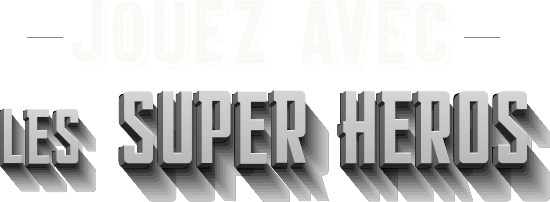
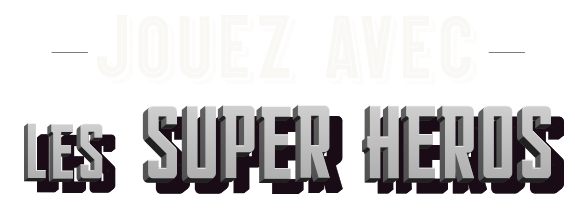
responsive

diff --git a/css/style.css b/css/style.css
@@ -118,7 +118,7 @@ a:hover {
 .c-btn {
   font-family: "Barlow", sans-serif;
   font-weight: 700;
-  margin-top: 50px;
+  margin-top: 20px;
   background-color: #9e0b0f;
   -webkit-box-shadow: 3px 3px 0px 0px white;
           box-shadow: 3px 3px 0px 0px white;
@@ -142,7 +142,17 @@ a:hover {
 }
 
 .footer-jouez {
-  margin-bottom: 50px;
+  margin: 50px 0 40px;
+  display: -webkit-box;
+  display: -ms-flexbox;
+  display: flex;
+  -webkit-box-orient: vertical;
+  -webkit-box-direction: normal;
+      -ms-flex-direction: column;
+          flex-direction: column;
+  -webkit-box-align: center;
+      -ms-flex-align: center;
+          align-items: center;
 }
 
 .footer-jouez p {

diff --git a/sass/_main.scss b/sass/_main.scss
@@ -69,7 +69,7 @@
 .c-btn {
   font-family: "Barlow", sans-serif;
   font-weight: 700;
-  margin-top: 50px;
+  margin-top: 20px;
   background-color: #9e0b0f;
   box-shadow: 3px 3px 0px 0px rgb(255, 255, 255);
   text-transform: uppercase;
@@ -89,7 +89,10 @@
 }
 
 .footer-jouez {
-  margin-bottom: 50px;
+  margin: 50px 0 40px;
+  display: flex;
+  flex-direction: column;
+  align-items: center;
   p {
     font-size: 18px;
     text-align: center;

diff --git a/partials/footer-jouez.php b/partials/footer-jouez.php
@@ -1,13 +1,16 @@
-<div class="footer-jouez d-flex align-items-center justify-content-center mt-5">
-      <img class="mr-5" src="../assets/imgs/logo-hasbro.png" alt="">
-      <div class="ml-5 d-flex flex-column align-items-center justify-content-center">
-        <p>Rendez-vous sur nos réseaux sociaux<br> pour suivre les super-héros !</p>
-        <div class="d-flex mt-4 icons">
-          <img src="../assets/imgs/icon-twitter.png" alt="">
-          <img src="../assets/imgs/icon-insta.png" alt="">
-          <img src="../assets/imgs/icon-facebook.png" alt="">
-          <img src="../assets/imgs/icon-youtube.png" alt="">
-        </div>
+<div class="footer-jouez">
+  <img class="img-fluid" src="../assets/imgs/frise-heros.png" alt="">
+  <div class="d-flex flex-column flex-lg-row align-items-center justify-content-center mt-5">
+    <img class="mr-lg-5 mb-5 mb-lg-0" src="../assets/imgs/logo-hasbro.png" alt="">
+    <div class="ml-lg-5 d-flex flex-column align-items-center justify-content-center">
+      <p>Rendez-vous sur nos réseaux sociaux<br> pour suivre les super-héros !</p>
+      <div class="d-flex mt-4 icons">
+        <img src="../assets/imgs/icon-twitter.png" alt="">
+        <img src="../assets/imgs/icon-insta.png" alt="">
+        <img src="../assets/imgs/icon-facebook.png" alt="">
+        <img src="../assets/imgs/icon-youtube.png" alt="">
       </div>
     </div>
+  </div>
+  <img class="img-fluid mt-5" src="../assets/imgs/copyrights.png" alt="">
 <?php include 'partials/footer.php'; ?>

diff --git a/teaser.php b/teaser.php
@@ -12,12 +12,13 @@
 </head>
 
 <body class="jouez-avec">
-  <?php include 'partials/header.php'; ?>
-    <img class="mt-5" src="../assets/imgs/jouez-avec-les-super-heros.png" alt="">
-      <h1>Le printemps des super-héros</h1>
-    <img src="../assets/imgs/gagner-400€-sombre.png" alt="">
-    <a href="/formulaire.html" class="c-btn">Je joue</a>
-  <?php include 'partials/footer-jouez.php'; ?>
+  <div class="container d-flex flex-column align-items-center">
+    <img class="img-fluid mt-5" src="../assets/imgs/jouez-avec-les-super-heros.png" alt="">
+    <h1 class="text-center">Le printemps des super-héros</h1>
+    <img class="img-fluid" src="../assets/imgs/gagner-400€-sombre.png" alt="">
+    <a href="/formulaire.html" class="c-btn dark">Bientôt en ligne</a>
+    <?php include 'partials/footer-jouez.php'; ?>
+  </div>
 </body>
 
 </html>

diff --git a/partials/footer.php b/partials/footer.php
@@ -1,10 +1,7 @@
 <footer>
-    <p class="copyright">
-      © 2020 MARVEL
-    </p>
-    <div class="liens">
-      <a href="/assets/Hasbro - Mentions légales et cookies.docx" download>Mentions légales ·</a>
-      <a href="">Contact ·</a>
-      <a href="reglement.html">Réglement</a>
-    </div>
-  </footer>
+  <div class="liens">
+    <a href="/assets/Hasbro - Mentions légales et cookies.docx" download>Mentions légales ·</a>
+    <a href="">Contact ·</a>
+    <a href="reglement.html">Réglement</a>
+  </div>
+</footer>

diff --git a/postjeu.php b/postjeu.php
@@ -13,7 +13,7 @@
 
 <body class="jouez-avec">
   <?php include 'partials/header.php'; ?>
-    <img class="mt-5" src="../assets/imgs/jouez-avec-les-super-heros.png" alt="">
+     <img class="img-fluid mt-5" src="../assets/imgs/jouez-avec-les-super-heros.png" alt="">
       <h1>Le printemps des super-héros</h1>
     <img src="../assets/imgs/gagner-400€-sombre.png" alt="">
     <a href="/formulaire.html" class="c-btn dark">Ce jeu est terminé</a>

diff --git a/perdu.php b/perdu.php
@@ -13,7 +13,7 @@
 
 <body class="gagne">
   <?php include 'partials/header.php'; ?>
-    <img src="../assets/imgs/le-printemps-des-super-heros.png" alt="">
+    <img class="img-fluid"src="../assets/imgs/le-printemps-des-super-heros.png" alt="">
     <h1>Dommage</h1>
     <p class="mb-5">Vous avez perdu...<p>
     <p>Vous pouvez retenter votre chance et en profiter pour découvrir tous nos jouets de Super-Héros.<br>

diff --git a/confirmation.php b/confirmation.php
@@ -13,7 +13,7 @@
 
 <body class="confirmation">
   <?php include 'partials/header.php'; ?>
-    <img src="../assets/imgs/le-printemps-des-super-heros.png" alt="">
+    <img class="img-fluid"src="../assets/imgs/le-printemps-des-super-heros.png" alt="">
     <h1>Merci d’avoir participé</h1>
     <p class="mb-3">Votre dossier est en cours de validation.
       Un email va vous être envoyé prochainement.<p>

diff --git a/gagne-power-rangers.php b/gagne-power-rangers.php
@@ -13,7 +13,7 @@
 
 <body class="gagne">
   <?php include 'partials/header.php'; ?>
-    <img src="../assets/imgs/le-printemps-des-super-heros.png" alt="">
+    <img class="img-fluid"src="../assets/imgs/le-printemps-des-super-heros.png" alt="">
     <h1>Bravo !</h1>
     <p>Vous avez gagné un jouet Power Rangers©</p>
     <img src="../assets/imgs/gagne-power-rangers.png" alt="">

diff --git a/gagne-transformers.php b/gagne-transformers.php
@@ -13,7 +13,7 @@
 
 <body class="gagne">
   <?php include 'partials/header.php'; ?>
-    <img src="../assets/imgs/le-printemps-des-super-heros.png" alt="">
+    <img class="img-fluid"src="../assets/imgs/le-printemps-des-super-heros.png" alt="">
     <h1>Bravo !</h1>
     <p>Vous avez gagné un jouet Transformers©</p>
     <img src="../assets/imgs/gagne-transformers.png" alt="">

diff --git a/formulaire.php b/formulaire.php
@@ -13,7 +13,7 @@
 
 <body class="formulaire">
   <?php include 'partials/header.php'; ?>
-    <img src="../assets/imgs/le-printemps-des-super-heros.png" alt="">
+    <img class="img-fluid"src="../assets/imgs/le-printemps-des-super-heros.png" alt="">
 
       <form class="d-flex flex-column align-items-start" action="/resultat-gagne.html">
         <div class="form-block mb-4">

diff --git a/gagne-bayblade.php b/gagne-bayblade.php
@@ -13,7 +13,7 @@
 
 <body class="gagne">
   <?php include 'partials/header.php'; ?>
-    <img src="../assets/imgs/le-printemps-des-super-heros.png" alt="">
+    <img class="img-fluid"src="../assets/imgs/le-printemps-des-super-heros.png" alt="">
     <h1>Bravo !</h1>
     <p>Vous avez gagné un jouet BEYBLADE BURST</p>
     <img src="../assets/imgs/gagne-beyblade.png" alt="">
